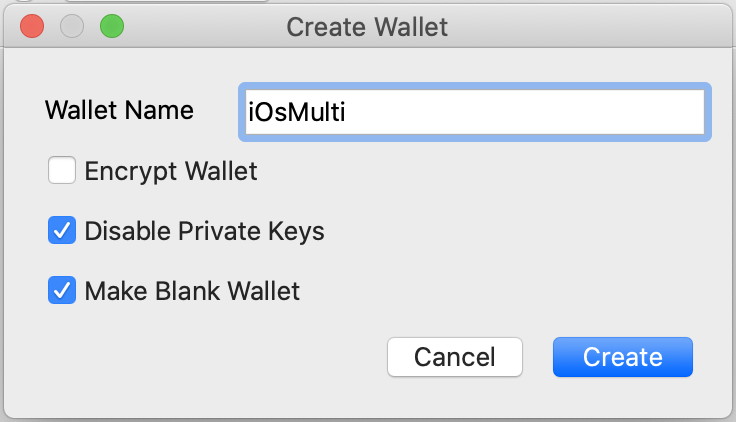
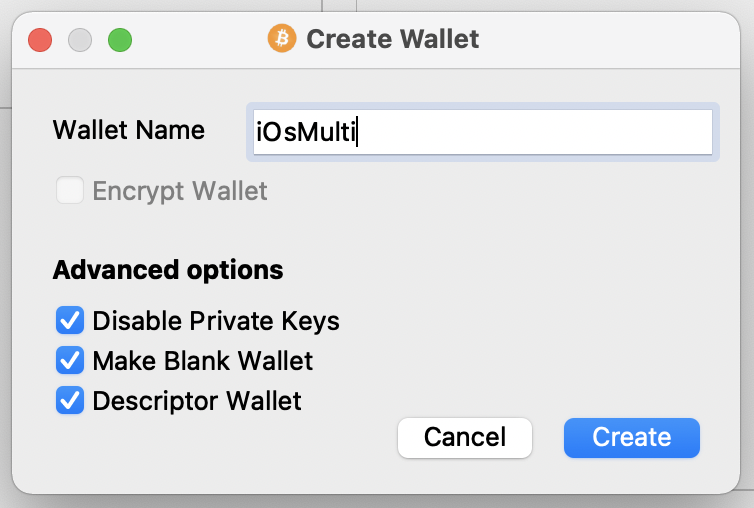
Update instructions for Bitcoin Core v0.21

diff --git a/docs/tutorial.md b/docs/tutorial.md
@@ -11,8 +11,6 @@ author:
 Prerequisites:
 * install NthKey via [TestFlight](https://testflight.apple.com/join/Y6cbJbEe)
 * Understand the [limitations](/#known-limitations)
-* learn how to compile Bitcoin Core from source ([macOS](https://github.com/bitcoin/bitcoin/blob/master/doc/build-osx.md), [Linux](https://github.com/bitcoin/bitcoin/blob/master/doc/build-unix.md), [Windows](https://github.com/bitcoin/bitcoin/blob/master/doc/build-windows.md))
-* learn how to use [Github forks](https://help.github.com/en/github/using-git/adding-a-remote)
 
 ## Wallet setup
 
@@ -26,29 +24,15 @@ or any hardware wallet with PSBT support and a compatible public key export form
 When practing on Testnet you can also use a device simulator, for iOs and/or
 any hardware wallet.
 
-### Compile Bitcoin Core
+### Install Bitcoin Core
 
-Follow the instructions for compiling Bitcoin Core (see prerequisites above), try the master branch first.
+Download the most recent [release candidate](https://bitcoincore.org/bin/bitcoin-core-0.21.0/)
+of Bitcoin Core v0.21.0 (may not be available yet, wait a few weeks or manually compile it).
 
-We going to use a highly experimental branch of Bitcoin Core. Only use this with testnet!
-
-[Bitcoin Core experimental branch](https://github.com/Sjors/bitcoin/pull/13).
-
-In order to use the branch from this pull request:
-
-```
-git remote add sjors git@github.com:sjors/bitcoin.git
-git fetch sjors
-git checkout 2020/01/descriptor-and-psbt
-```
-
-Compile as usual and start Bitcoin QT. It's recommended to set `addresstype=bech32` in [bitcoin.conf](https://github.com/bitcoin/bitcoin/blob/master/share/examples/bitcoin.conf).
-
-Do not use this branch with your mainnet wallet, and be very cautious when running
-code from strangers on the internet!
+Do not use this pre-release with your mainnet wallet. To launch with testnet on macOS:
 
 ```sh
-src/qt/bitcoin-qt -testnet
+/Applications/Bitcoin-Qt.app/Contents/MacOS/Bitcoin-Qt  -testnet
 ```
 
 Go to the "File" -> "Create Wallet..." menu and fill out the form as follows:
